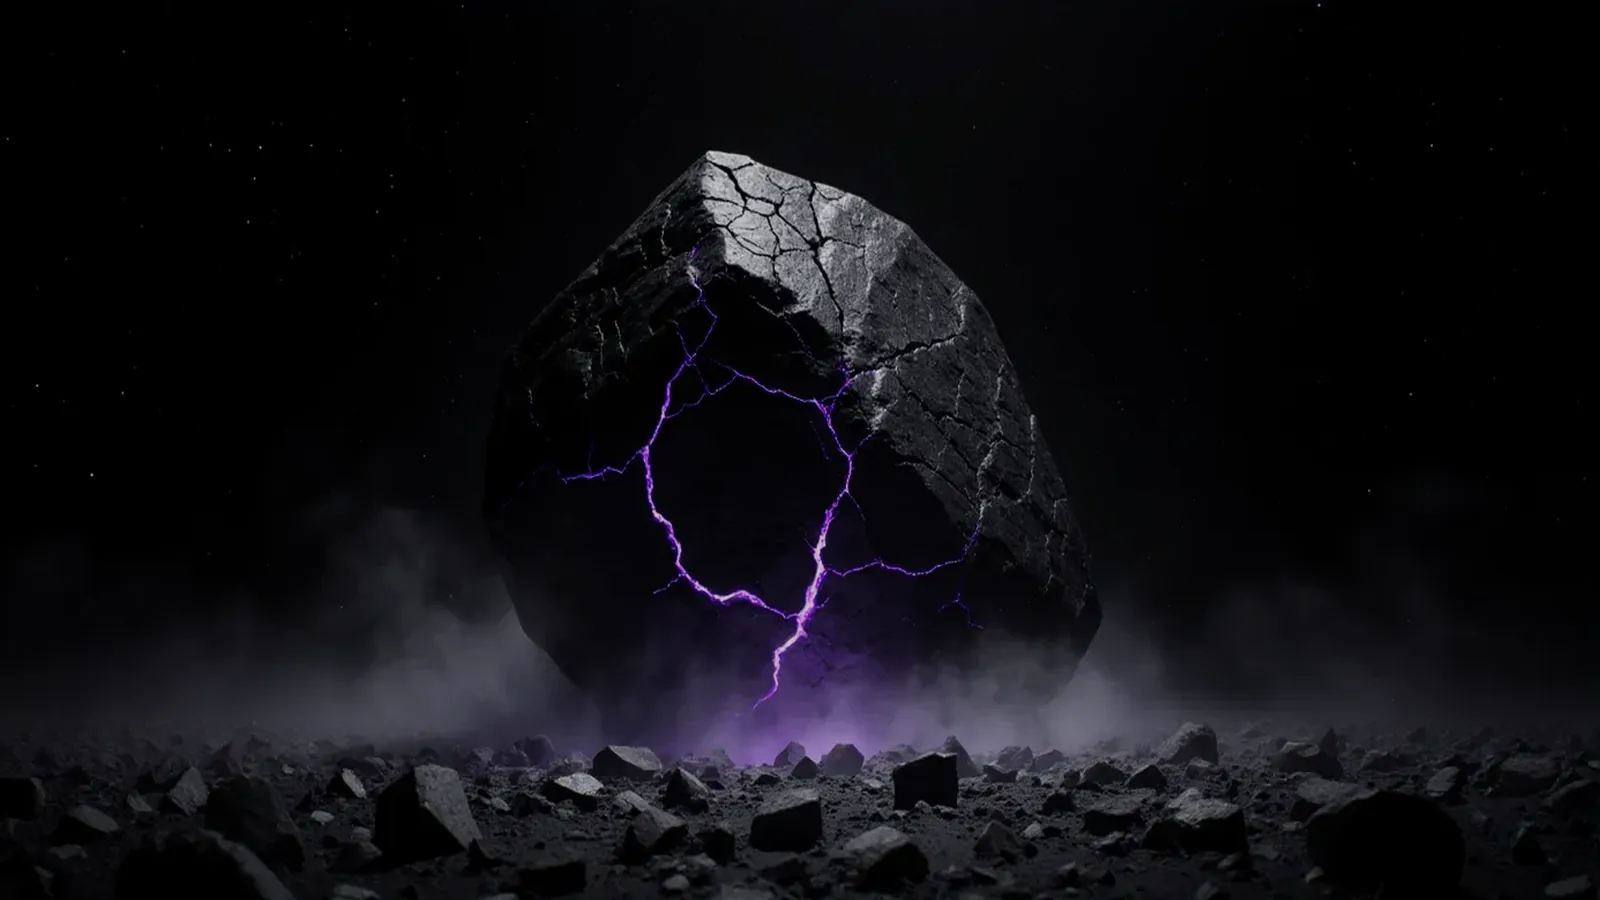
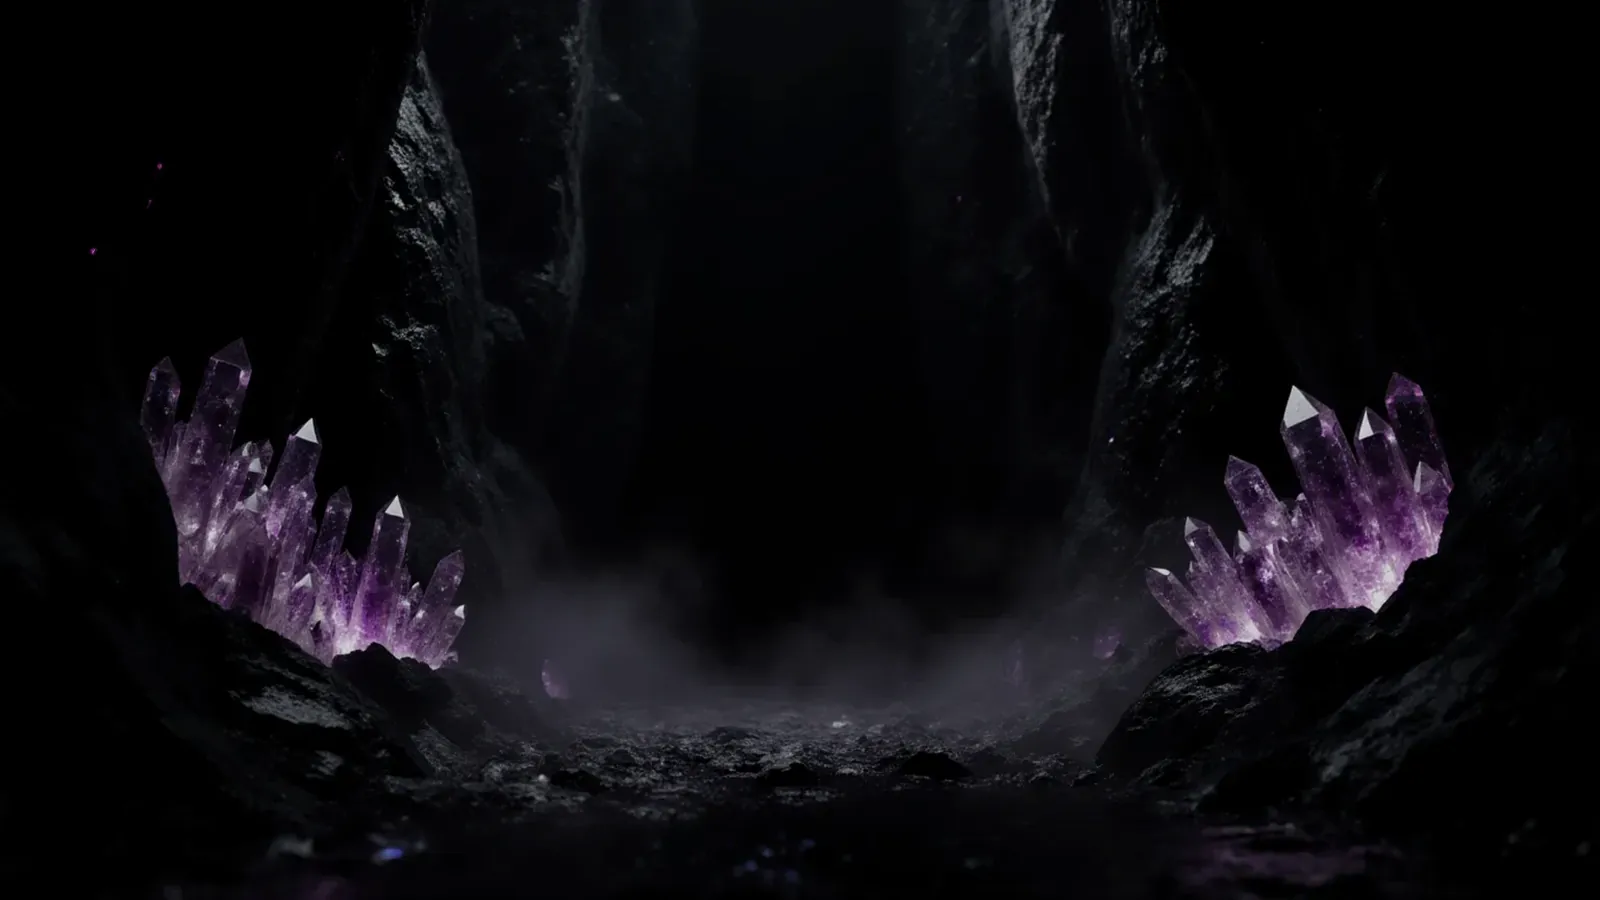
Fioletowa Pustka 1.24.1: ekran wczytywania z tłem kryształowej groty zamiast monolitu

diff --git a/margonem-violet-void/margonem-violet-void.user.js b/margonem-violet-void/margonem-violet-void.user.js
@@ -2,7 +2,7 @@
 // @name         Margonem – Fioletowa Pustka (Violet Void)
 // @namespace    https://github.com/Harkryn/Dodatki
 // @author       Harkryn
-// @version      1.24.0
+// @version      1.24.1
 // @description  Mroczny motyw interfejsu Margonem: prawie czarne panele z grafitowymi krawędziami, fiolet pustki tylko jako akcent (cienkie linie, stany aktywne, focus, najechanie). Tylko wygląd UI – mapa, sprite'y i logika gry bez zmian. Tylko nowy interfejs (NI); na starym (SI) skrypt nic nie robi.
 // @match        https://*.margonem.pl/*
 // @match        https://margonem.pl/*
@@ -40,7 +40,7 @@
 
   if (window.top !== window.self) return;
 
-  const VERSION = '1.24.0';
+  const VERSION = '1.24.1';
   const ON = 'vv-on';            // motyw włączony
   const KEY_ON = 'vv-enabled';
   const KEY_GLOW = 'vv-glow';    // low | mid | high
@@ -71,7 +71,7 @@
     orbFx: res('vvOrbCracks', 'orb-cracks.mp4'),    // 480×480, 3 s pętli: pierścień pęknięć wokół kuli HP (FLUX + Wan 2.2)
     ring: res('vvOrbRing', 'orb-ring.webp'),        // 256×256, kamienny pierścień wokół kuli (wewn. promień = 0,367 szerokości)
     lintel: res('vvShopLintel', 'shop-lintel.webp'), // 960×65, bazaltowe nadproże sklepu (w miejscu markizy)
-    loading: res('vvLoading', 'loading.webp')        // 1600×900, tło ekranu wczytywania (pęknięty bazaltowy monolit)
+    loading: res('vvLoading', 'loading.webp')        // 1600×900, tło ekranu wczytywania (grota z wulkanicznego szkła z ametystami)
   };
 
   // Przydział kafli przyciskom HUD w kolejności, w jakiej stoją na belkach – sąsiednie dostają inne kamienie
@@ -761,7 +761,7 @@ ${N} .shop-wrapper .total-price { color: var(--vv-text) !important; font-variant
 ${N} .shop-wrapper .shop-content .shop-balance::after { background: var(--vv-edge) !important; }
 
 /* --- ekran wczytywania ---
-   Tło: pęknięty bazaltowy monolit w pustce (cover), logo gry przebarwione ze złota na ametyst z poświatą,
+   Tło: grota z czarnego wulkanicznego szkła z ametystami po bokach (cover), logo gry przebarwione ze złota na ametyst z poświatą,
    pasek postępu (272×7) jak pasek doświadczenia – fiolet z jasną krawędzią na czarnym korycie w ramie okien. */
 ${N} .layer.loader-layer {
   background: radial-gradient(ellipse 60% 45% at 50% 50%, rgb(0 0 0 / .45), transparent 70%),

diff --git a/README.md b/README.md
@@ -218,7 +218,7 @@ Funkcje:
 - **pasek doświadczenia** — kapsuły „% doświadczenia” i „czas” w pierwotnym miejscu, wsunięte pod pierścień kuli (liczby odsunięte tak, by kamień ich nie zasłaniał); ciemny fiolet pustki z jaśniejszą krawędzią i linią energii, po którym wolno przepływa połysk (w obu paskach w stronę kuli), czarne koryto z wewnętrznym cieniem; paski i kapsuły „% doświadczenia” i „czas” w cienkiej ramie z wulkanicznego szkła z ametystami, tej samej co okna — bez metalowych skrzydeł i ozdób gry wokół kuli,
 - **paski** — HP zostaje czerwone (czytelność w walce), druga belka w przygaszonym fiolecie, grafitowa listwa; paski nad postaciami w walce bez zmian,
 - **ikona pingu** — ten sam półokrągły wskaźnik co w grze, w kolorach motywu: odbity w pionie, segmenty zapalają się od góry wraz z lagiem (fiolet, przy dużym lagu magenta),
-- **ekran wczytywania** — pęknięty bazaltowy monolit w pustce z fioletem sączącym się z pęknięć, logo gry przebarwione na ametyst, pasek postępu w fiolecie w ramie okien,
+- **ekran wczytywania** — grota z czarnego wulkanicznego szkła z ledwie świecącymi ametystami po bokach i pustym, ciemnym środkiem, logo gry przebarwione na ametyst, pasek postępu w fiolecie w ramie okien,
 - **walka** — panel walki w ramie z wulkanicznego szkła jak okna, z ametystem na górnej krawędzi, pasek czasu tury w fiolecie, daty i licznik puli w kolorach motywu, ikony przygaszone do fioletu; plansza walki, wpisy dziennika i kolory stron walki bez zmian,
 - **minimapa** — sama mapa bez zmian, grafitowa ramka,
 - **przyciski** — grafitowe płytki, przy najechaniu fioletowa krawędź i poświata; czerwone, złote i smocze przyciski gry bez zmian,

diff --git a/assets/violet-void/PROMPTS.md b/assets/violet-void/PROMPTS.md
@@ -78,7 +78,7 @@ FLUX.1 Krea-dev, 1536×256, obróbka jak przy kamieniach (czerń → przezroczys
 - **A** (seed 1491346784): Game UI asset, orthographic flat front view, a wide long thin horizontal carved lintel of rough charred black basalt stone, a row of small dark pyramid crystal studs along it, a single small glowing amethyst crystal set in the exact center, faint violet light in two thin cracks, isolated on pure solid black background #000000, extremely dark, no text
 - **B** (seed 1436142511): Game UI asset, orthographic flat front view, a thin dark iron chain strung horizontally across the full width near the top, small sharp amethyst crystal shards hanging from it at even intervals pointing down, alternating long and short shards, a few shards with faint violet inner glow, isolated on pure solid black background #000000, very dark, no text
 
-## Ekran wczytywania — tło (wybrana A → loading.webp, 1600×900)
+## Ekran wczytywania — tło (od 1.24.1 wybrana B → loading.webp, 1600×900; wcześniej A)
 
 FLUX.1 Krea-dev, 1536×864 → 1600×900 WebP (jasność 82%, A przycięte z białego passe-partout):
 - **A** (seed 1934192933): Dark fantasy wide landscape, a huge cracked black basalt monolith floating in an endless dark void, faint violet light seeping from deep cracks in the stone, tiny broken stone shards drifting around it, very faint distant stars, mist at the bottom, extremely dark low key cinematic lighting, mostly black with violet accents, empty dark center area, no text, no characters, no planets
